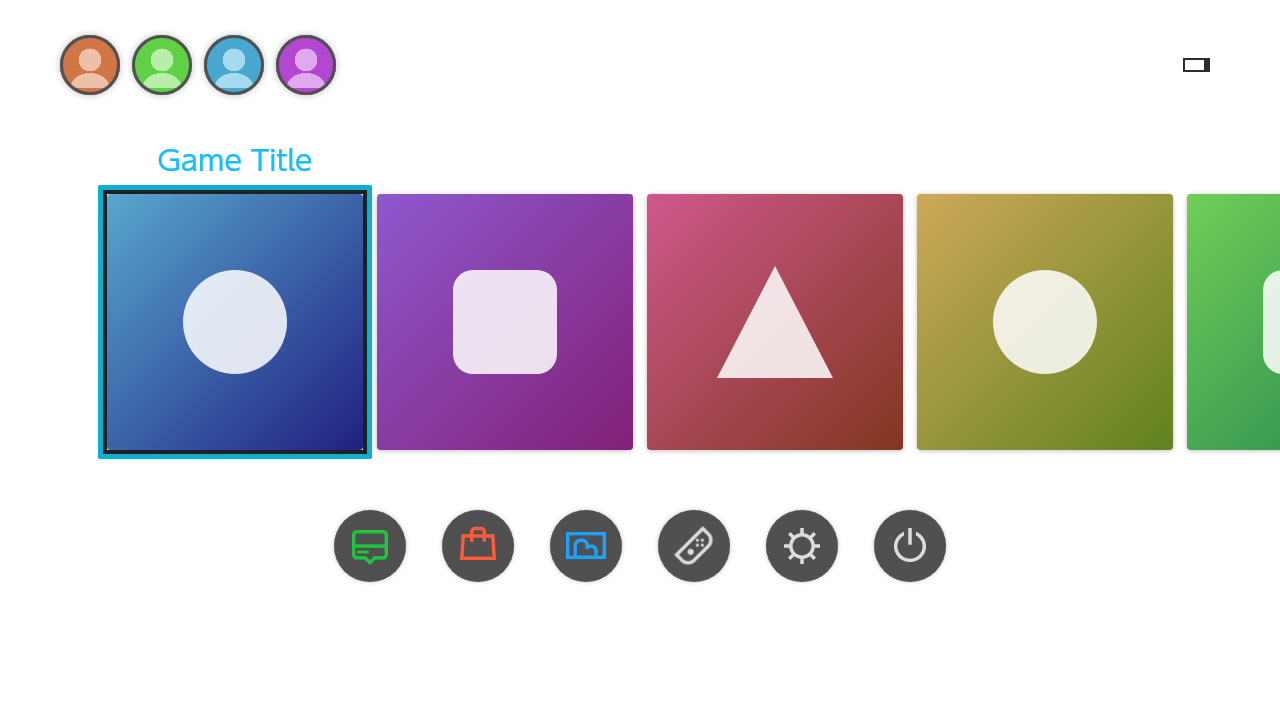
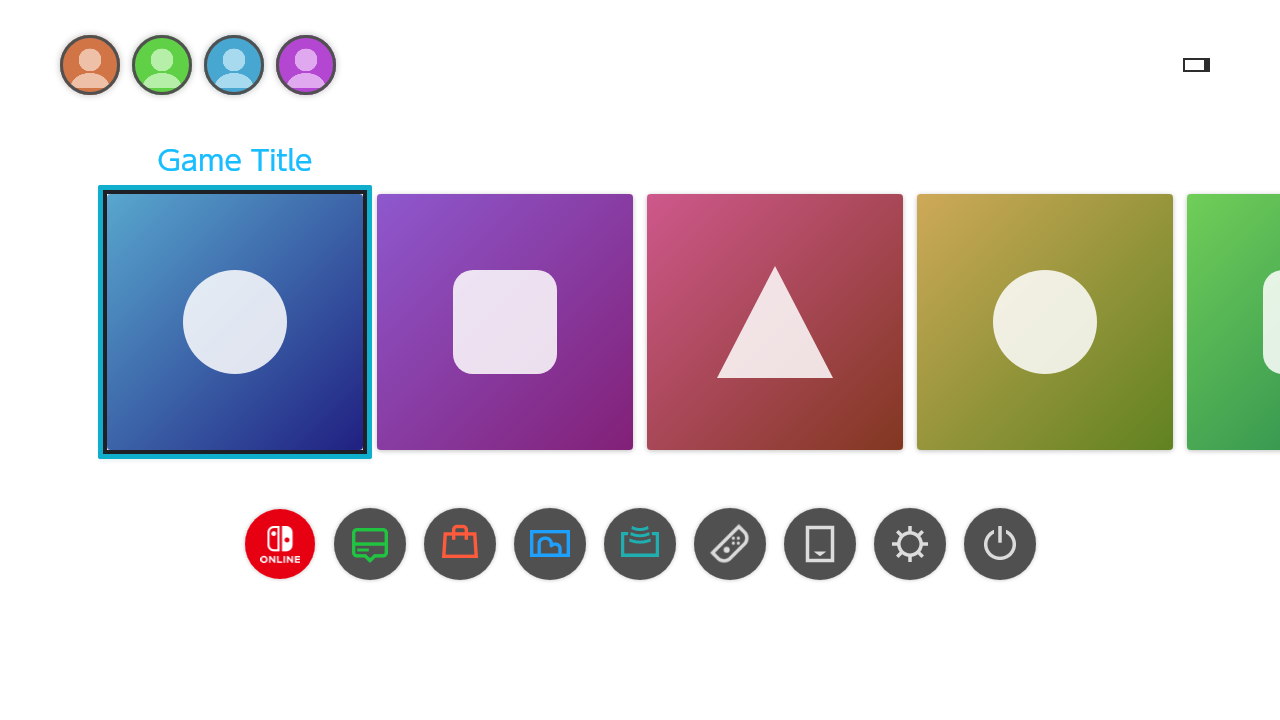
Render the Default layouts as today's stock menu
A layout without layout.json now renders on the current firmware with the online button shown, so the installer's
pre-20.0 applet fix no longer drops the online, GameStream and virtual game card buttons from the Home Menu's Default.

Changed region(s): [[0.2812, 0.7028, 0.8125, 0.825], [0.1875, 0.7028, 0.25, 0.825]]

diff --git a/src/overlays.ts b/src/overlays.ts
@@ -126,7 +126,8 @@ for (const dir of todo) {
 	const layout = JSON.stringify({
 		PatchName: name,
 		ID: id,
-		...JSON.parse(readText(path.join(ROOT, dir, 'layout.json')) ?? '{}'),
+		// A layout without layout.json is the stock menu: current firmware, online button shown, so no installer fix rearranges it.
+		...JSON.parse(readText(path.join(ROOT, dir, 'layout.json')) ?? '{"TargetFirmware":2000,"HideOnlineBtn":false}'),
 	})
 	const common = readText(path.join(ROOT, dir, 'common.json'))
 	for (const overlay of OVERLAYS) {
